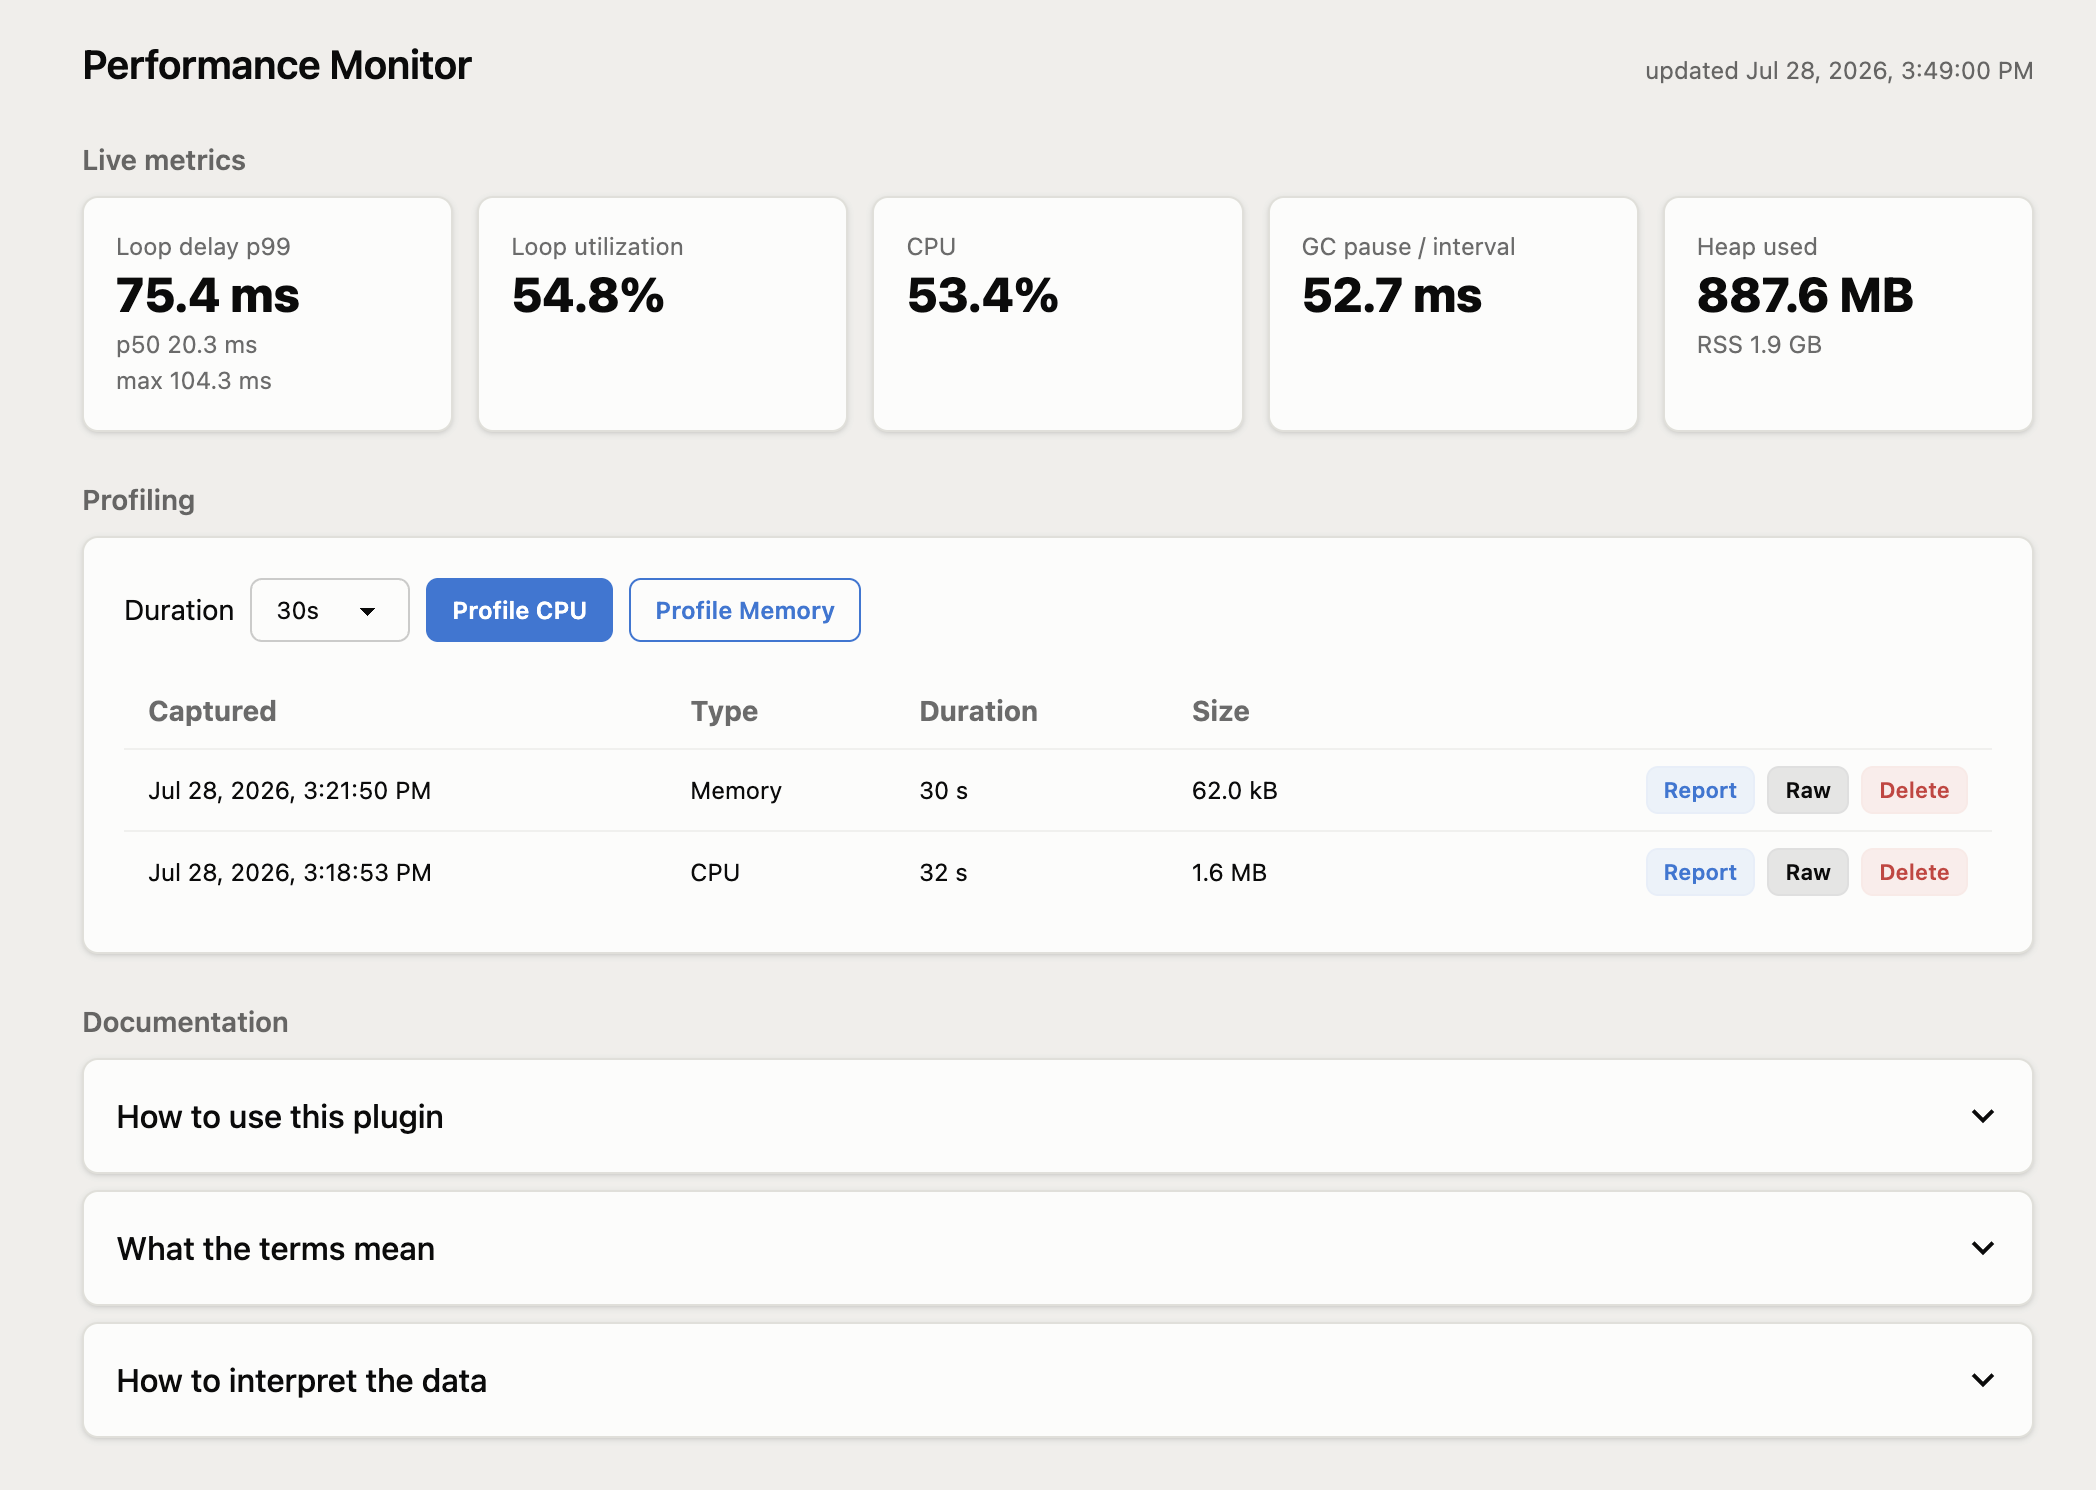
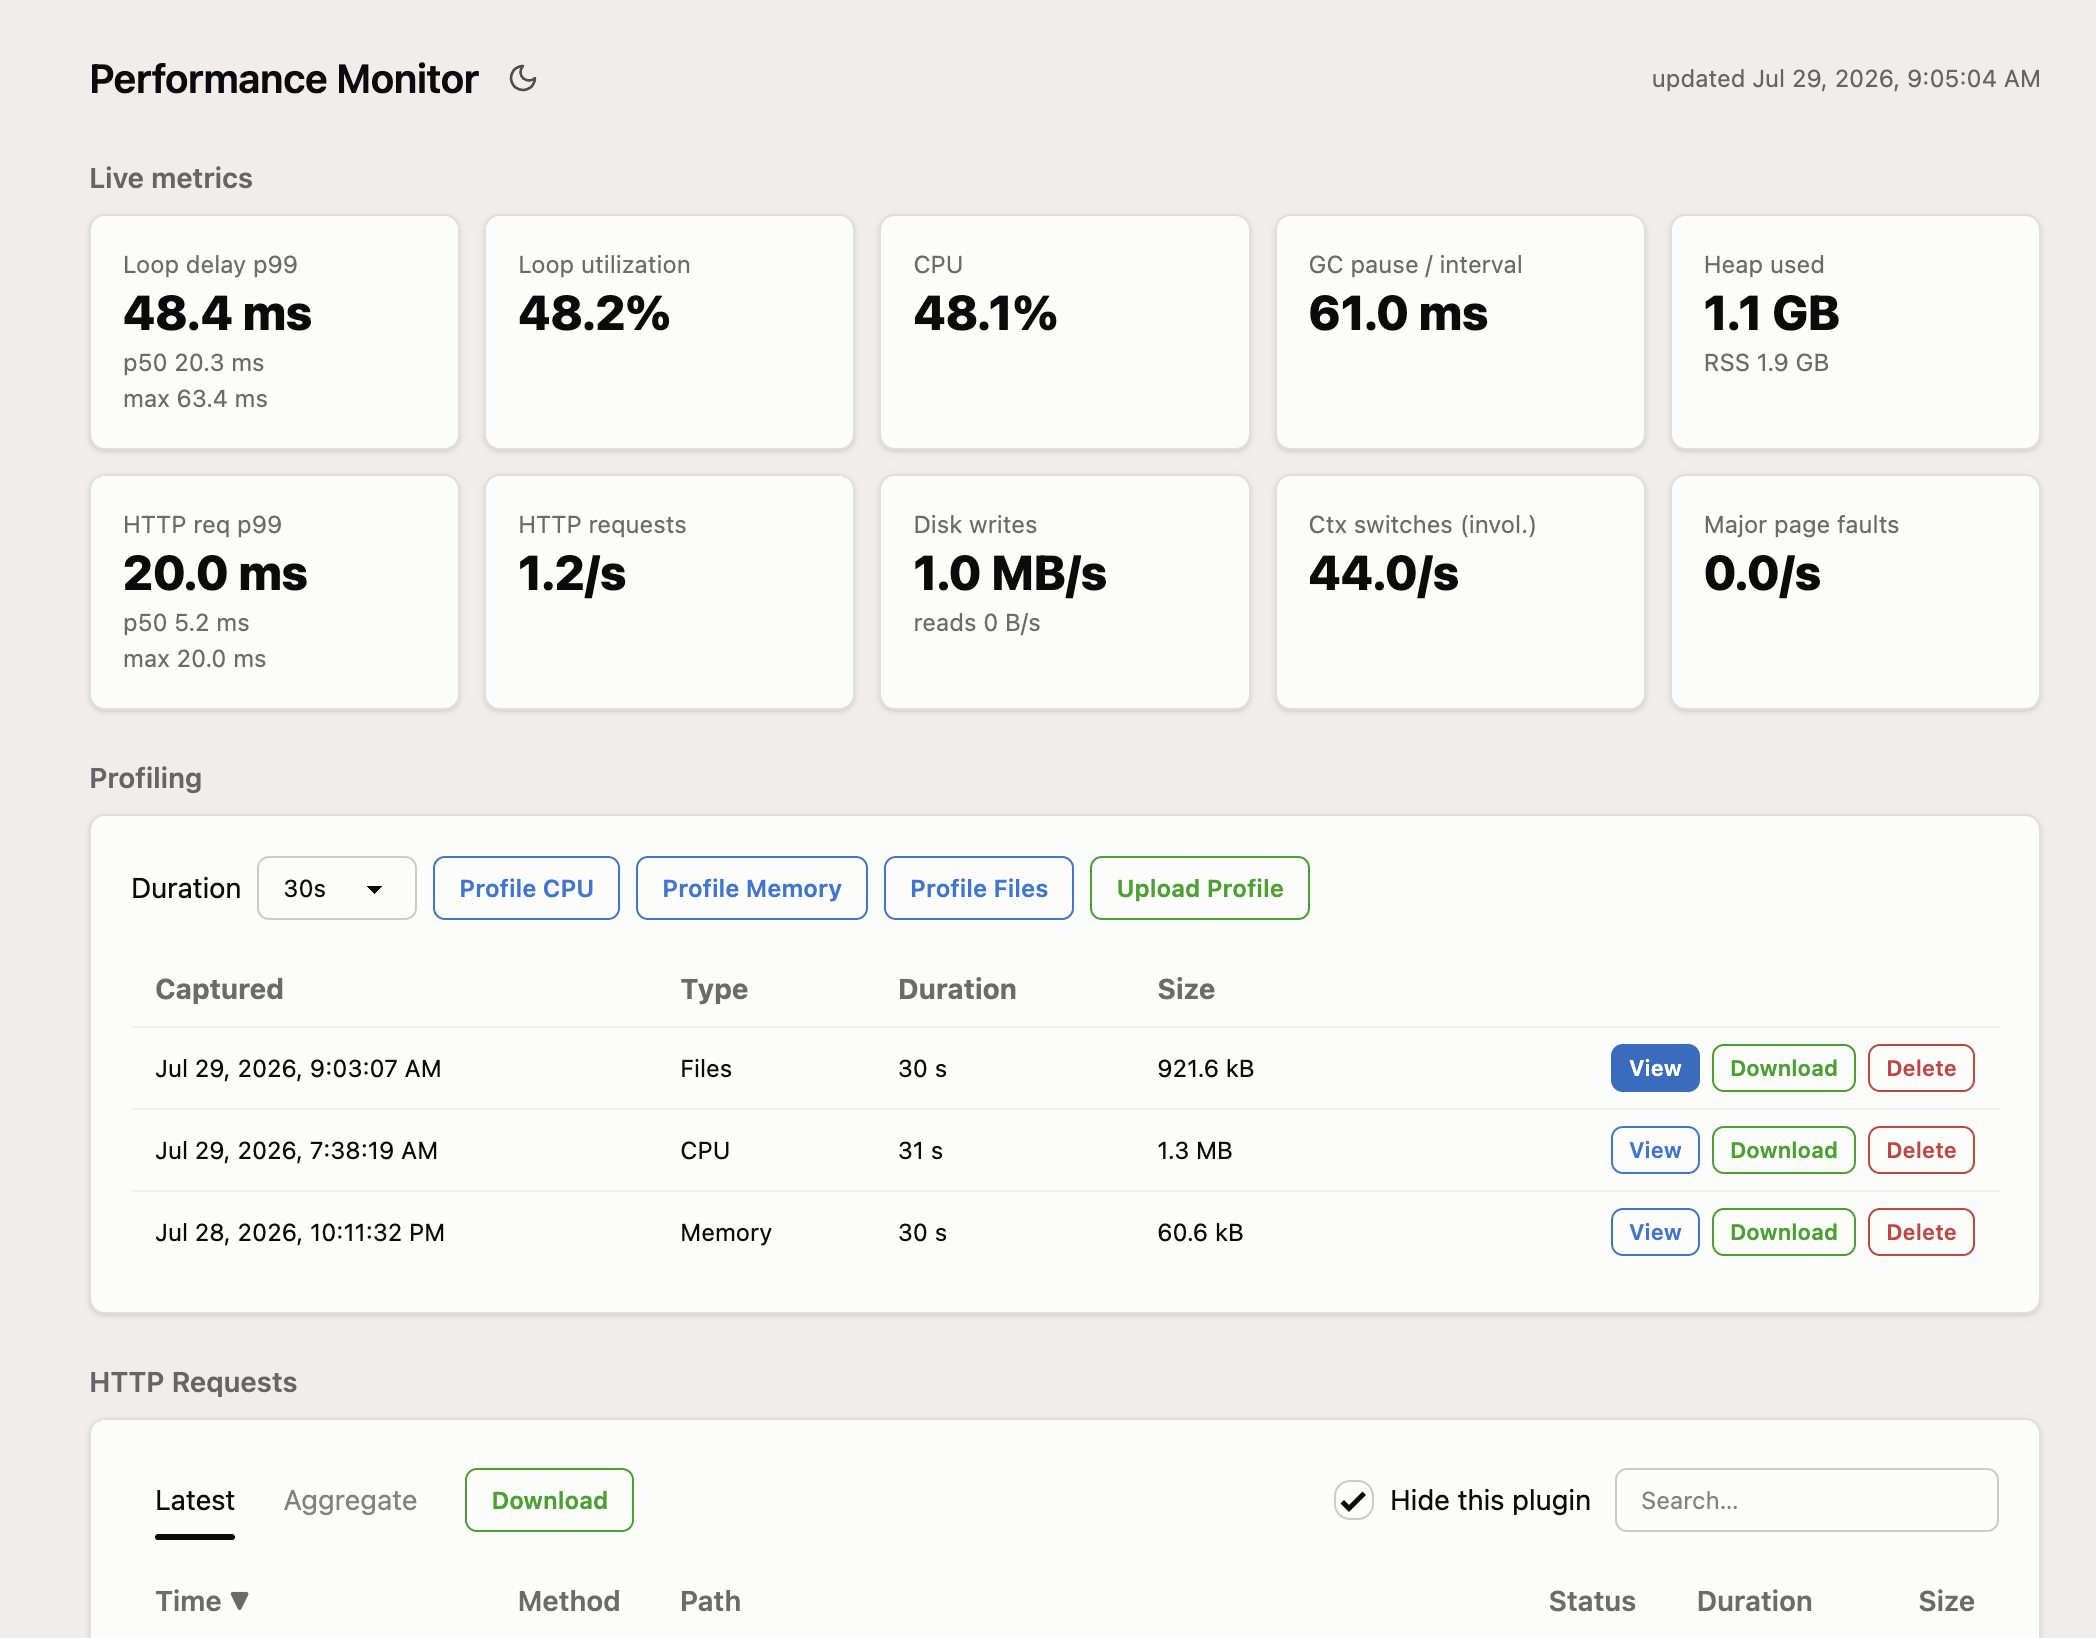
v1.3.0

diff --git a/CHANGELOG.md b/CHANGELOG.md
@@ -5,7 +5,7 @@
 - File activity reports attribute estimated writes per plugin (`plugin-config-data/<plugin>/` paths, plugin storage folders like `~/.signalk/charts-simple/` bucketed by folder name, node_modules packages, server core) and honesty-check the sum against the kernel's process-wide counter, reporting the gap as an explicit `(unattributed)` row; reports are stored, viewable, downloadable (raw per-sample series as JSON), and deletable like every other capture
 - File activity reports render in two tabs: Summary (attribution, databases, changed files) and Individual Files — every watched file with all of its stats in a sortable, searchable table with a JSON download of the current view, built on the same table machinery as the HTTP request tables. Paths in both tabs display relative to the Signal K data directory with bucket/mode/kind as colored badges under each filename and a copy-full-path button (with a plain-HTTP clipboard fallback), and a default-on "Hide readonly files" filter keeps the writers in focus
 - Downloaded file profiles can be re-uploaded like CPU and memory profiles: the report is rebuilt by replaying the raw sample series through the same aggregation a live capture uses, with duration and sample interval recovered from the samples when the embedded metadata is missing
-- New admin-only `POST /files-profile` route (`{ duration?, sampleIntervalSeconds? }`, 501 on non-Linux hosts) sharing the one-capture-at-a-time slot with CPU and memory profiling
+- New admin-only `POST /files-profile` route (`{ duration?, sampleIntervalSeconds? }`, 501 on non-Linux hosts) sharing the one-capture-at-a-time slot with CPU and memory profiling; sampling defaults to 100 ms — captures are on-demand and bounded, so the faster rate costs nothing outside a capture while catching short-lived files and WAL checkpoints that 1 s sampling would miss
 
 # v1.2.0
 
